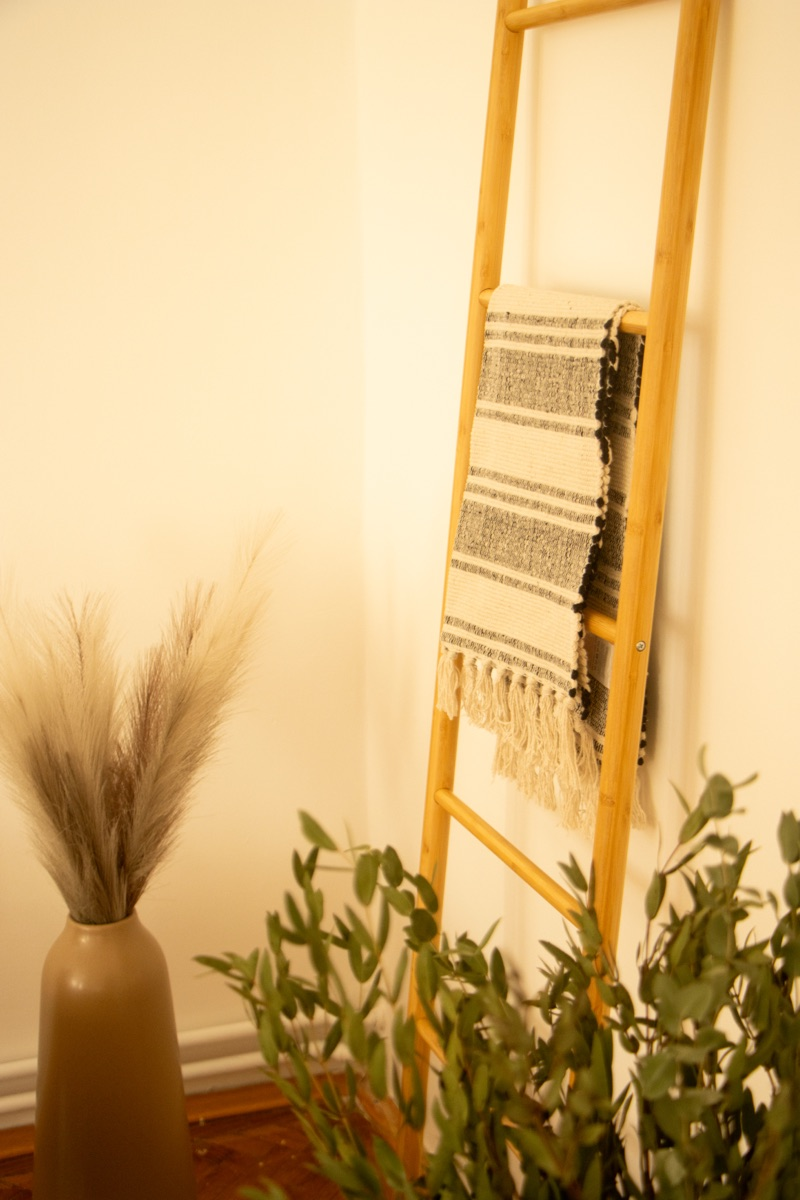
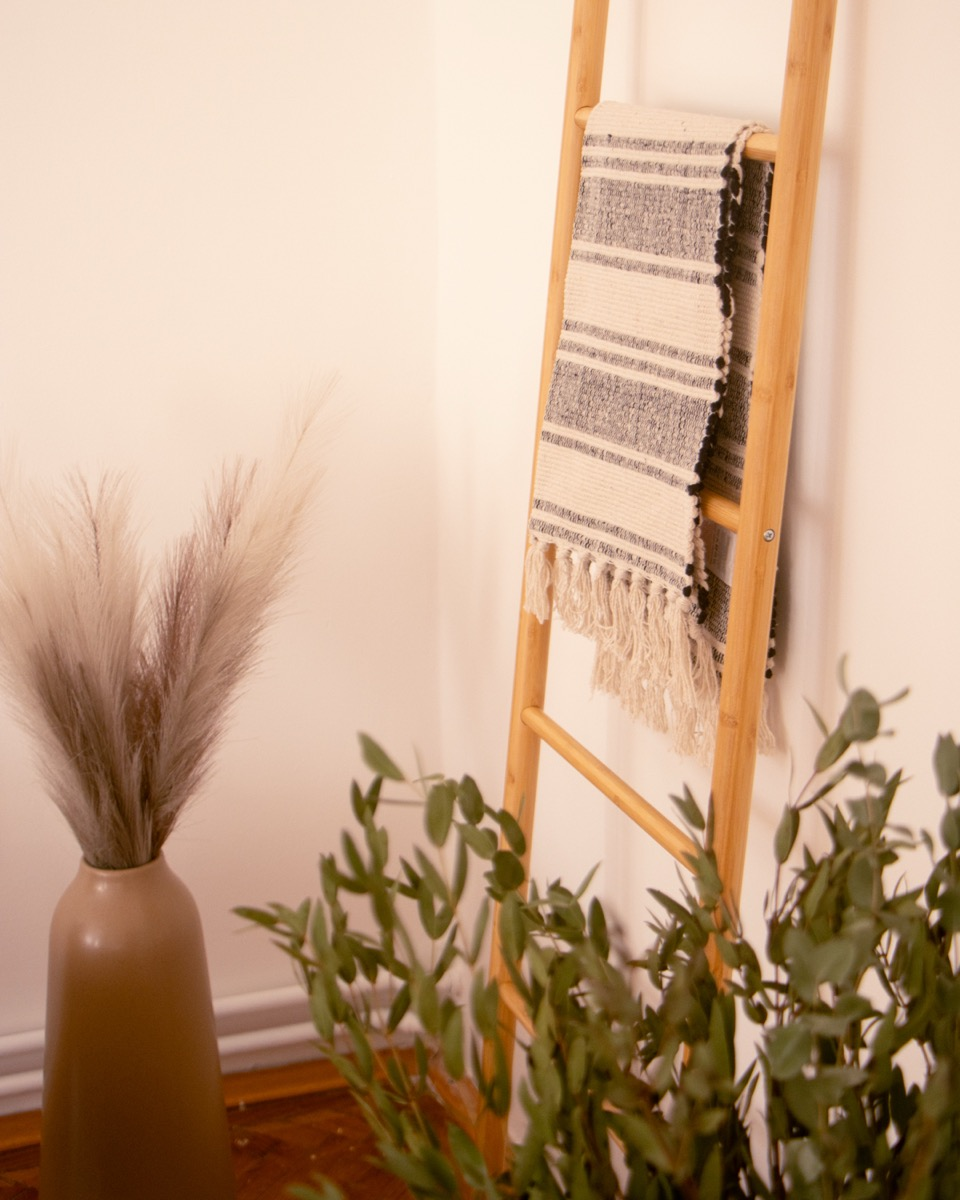
régi studio képek cseréje

diff --git a/index.html b/index.html
@@ -18,7 +18,7 @@
   <meta property="og:url"         content="https://studiofreya.hu/" />
   <meta property="og:title"       content="Studio Freya – Fotóstúdió Veszprémben" />
   <meta property="og:description" content="Professzionális fotóstúdió Veszprémben. Stúdióbérlés vagy fotózás Zakariás Fannival. Online foglalás, Rákóczi utca 4." />
-  <meta property="og:image"       content="https://studiofreya.hu/images/studio/web/IMG_1823.jpg" />
+  <meta property="og:image"       content="https://studiofreya.hu/images/studio/web/IMG_1930.jpg" />
   <meta property="og:locale"      content="hu_HU" />
   <meta property="og:site_name"   content="Studio Freya" />
 
@@ -26,7 +26,7 @@
   <meta name="twitter:card"        content="summary_large_image" />
   <meta name="twitter:title"       content="Studio Freya – Fotóstúdió Veszprémben" />
   <meta name="twitter:description" content="Professzionális fotóstúdió Veszprémben. Stúdióbérlés vagy fotózás Zakariás Fannival." />
-  <meta name="twitter:image"       content="https://studiofreya.hu/images/studio/web/IMG_1823.jpg" />
+  <meta name="twitter:image"       content="https://studiofreya.hu/images/studio/web/IMG_1930.jpg" />
 
   <!-- Schema.org strukturált adat -->
   <script type="application/ld+json">
@@ -61,7 +61,7 @@
     "priceRange": "10 000 – 65 000 Ft",
     "currenciesAccepted": "HUF",
     "paymentAccepted": "Cash, Bank Transfer",
-    "image": "https://studiofreya.hu/images/studio/web/IMG_1823.jpg",
+    "image": "https://studiofreya.hu/images/studio/web/IMG_1930.jpg",
     "sameAs": ["https://www.instagram.com/studiofreyaveszprem/"]
   }
   </script>
@@ -92,7 +92,7 @@
 
   <!-- Hero -->
   <section class="hero">
-    <img src="images/studio/web/IMG_1842.jpg" alt="Studio Freya fotóstúdió Veszprém" class="hero-bg" aria-hidden="true" />
+    <img src="images/studio/web/IMG_1930.jpg" alt="Studio Freya fotóstúdió Veszprém" class="hero-bg" aria-hidden="true" />
     <div class="hero-logo-wrap">
       <img src="images/logo-aperture.svg" alt="Studio Freya" class="hero-logo" />
     </div>
@@ -118,31 +118,28 @@
         <button class="studio-car-btn studio-car-prev" id="studio-car-prev" aria-label="Előző">&#8249;</button>
         <div class="studio-car-track" id="studio-car-track">
           <div class="studio-car-item studio-img">
-            <img src="images/studio/web/IMG_1867.jpg" alt="Bézs kanapé párnákkal és pálmalevél növénnyel" />
+            <img src="images/studio/web/IMG_1930.jpg" alt="Bézs kanapé boho párnákkal és növényekkel" />
           </div>
           <div class="studio-car-item studio-img">
-            <img src="images/studio/web/IMG_1876.jpg" alt="Bézs kanapé közelkép, bohó párnák" />
+            <img src="images/studio/web/IMG_1822.jpg" alt="Bézs kanapé tufted párnákkal, fa lábú asztalka növénnyel" />
           </div>
           <div class="studio-car-item studio-img">
-            <img src="images/studio/web/IMG_1823.jpg" alt="Mustár pad, fa létra és dekorok" />
+            <img src="images/studio/web/IMG_1931.jpg" alt="Fehér buborék váza eukaliptusszal, bézs asztalka" />
           </div>
           <div class="studio-car-item studio-img">
-            <img src="images/studio/web/IMG_1821.jpg" alt="Fehér asztalka eukaliptusz növénnyel" />
+            <img src="images/studio/web/IMG_1920.jpg" alt="Mustár kanapé karfa közelkép, pampas fű vázában" />
           </div>
           <div class="studio-car-item studio-img">
-            <img src="images/studio/web/IMG_1822-2.jpg" alt="Fa létra takaróval, pampas és eukaliptusz" />
+            <img src="images/studio/web/IMG_1821.jpg" alt="Mustár kanapé, fehér buborék váza eukaliptusz ágakkal" />
           </div>
           <div class="studio-car-item studio-img">
-            <img src="images/studio/web/IMG_1853.jpg" alt="Pink virágcsokor cappuccino Colorama háttéren" />
+            <img src="images/studio/web/IMG_1853.jpg" alt="Pink hortenzia bézs vázában, cappuccino Colorama háttéren" />
           </div>
           <div class="studio-car-item studio-img">
-            <img src="images/studio/web/IMG_1835.jpg" alt="Tipi sátor a gyereksarokból" />
+            <img src="images/studio/web/IMG_1946.jpg" alt="Tipi sátor cseresznyevirág girlanddal és mackóval" />
           </div>
           <div class="studio-car-item studio-img">
-            <img src="images/studio/web/IMG_1836.jpg" alt="Tipi sátor belseje – mackó és kosár" />
-          </div>
-          <div class="studio-car-item studio-img">
-            <img src="images/studio/web/IMG_1899.jpg" alt="Nagy plüss mackó ív hátterekkel" />
+            <img src="images/studio/web/IMG_1964.jpg" alt="Godox stúdiólámpák bézs Colorama papírháttér előtt" />
           </div>
         </div>
         <button class="studio-car-btn studio-car-next" id="studio-car-next" aria-label="Következő">&#8250;</button>
